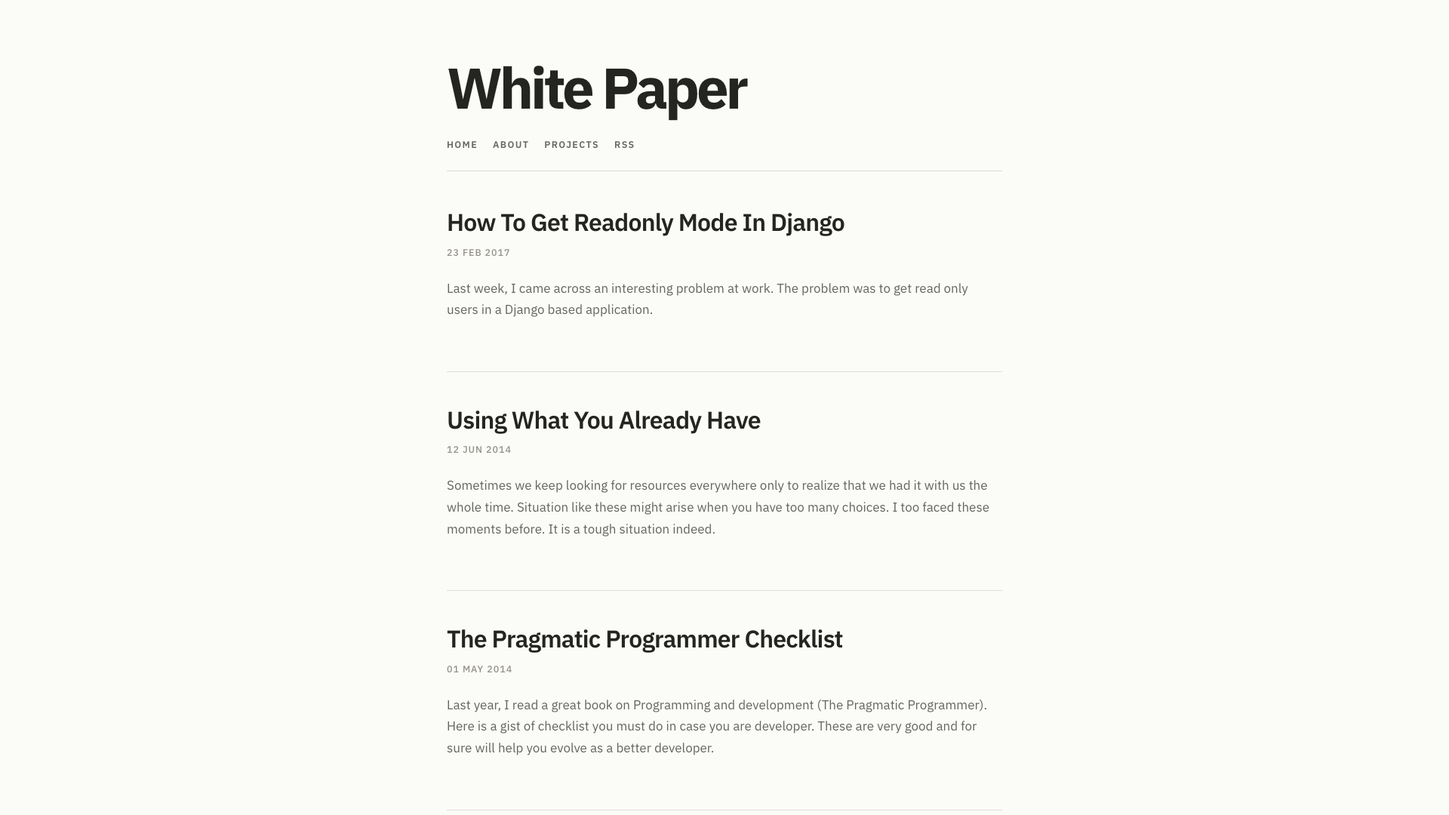
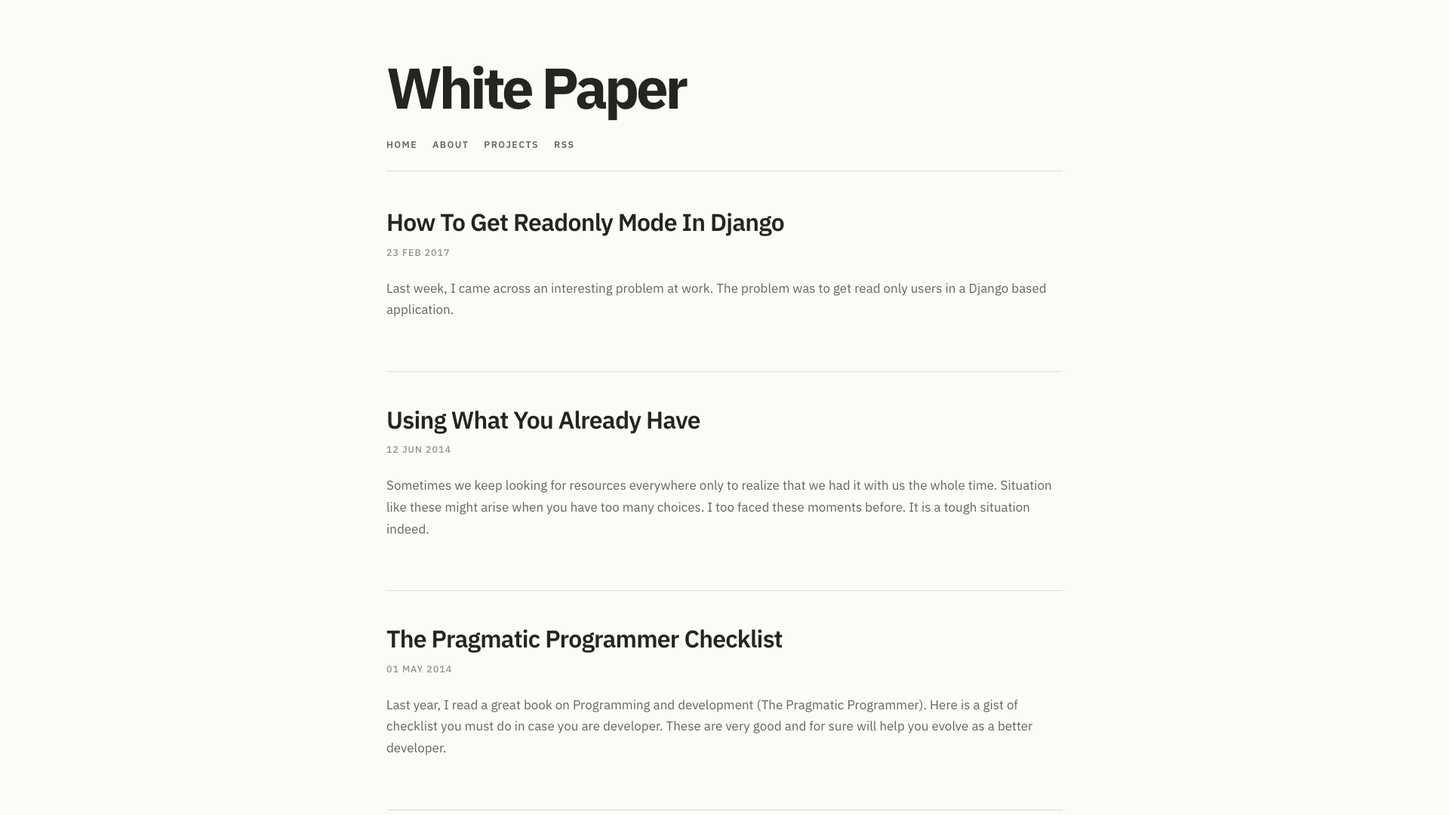
Widen the theme content area
Use more horizontal space on modern displays while retaining responsive margins on smaller screens. Refresh screenshots to match.

diff --git a/dist/css/main.min.rtl.css b/dist/css/main.min.rtl.css
@@ -1,1 +1,1 @@
-:root{--paper:#fbfbf8;--paper-raised:#fff;--ink:#242421;--ink-soft:#65645f;--ink-faint:#918f87;--line:#deddd6;--accent:#087ea4;--accent-dark:#075d78;--code-bg:#f1f4f3;--content-width:46rem;--radius:.35rem}*,:before,:after{box-sizing:border-box}html{--lightningcss-light:initial;--lightningcss-dark: ;color-scheme:light;scroll-behavior:smooth;font-size:100%}body{color:var(--ink);background:var(--paper);text-rendering:optimizelegibility;-webkit-font-smoothing:antialiased;margin:0;font-family:IBM Plex Sans,system-ui,sans-serif;font-size:1.0625rem;line-height:1.7}::selection{color:var(--ink);background:#cfeef5}.access{clip:rect(0, 0, 0, 0);white-space:nowrap;border:0;width:1px;height:1px;margin:-1px;padding:0;position:absolute;overflow:hidden}.clear{clear:both}.clearfix:after{clear:both;content:"";display:table}.container{width:min(100% - 2.5rem, var(--content-width));margin-inline:auto}a{color:var(--accent);text-underline-offset:.18em;text-decoration-thickness:.08em}a:hover{color:var(--accent-dark)}a:focus-visible,button:focus-visible{outline:3px solid color-mix(in srgb, var(--accent) 35%, transparent);outline-offset:.2rem;border-radius:.15rem}img{max-width:100%;height:auto;display:block}p,ul,ol,dl,blockquote,pre,table,.figure{margin-block:1.4rem}ul,ol{padding-inline-start:1.4rem}li+li{margin-top:.35rem}strong{font-weight:600}hr{border:0;border-top:1px solid var(--line);width:4rem;margin:3.5rem auto}header{border-bottom:1px solid var(--line);padding-block:clamp(2.5rem,8vw,5rem) 1.5rem}a.top-link{color:var(--ink);letter-spacing:-.055em;font-size:clamp(2.6rem,9vw,4.75rem);font-weight:700;line-height:.95;text-decoration:none;display:inline-block}a.top-link:hover{color:var(--ink-soft)}ul.nav{flex-wrap:wrap;gap:.5rem 1.25rem;margin:1.75rem 0 0;padding:0;list-style:none;display:flex}ul.nav li{letter-spacing:.11em;text-transform:uppercase;font-size:.78rem;font-weight:600;margin:0!important}ul.nav li a{color:var(--ink-soft);text-decoration:none}ul.nav li a:hover{color:var(--ink)}.listing{margin-block:0 clamp(3rem,8vw,5rem)}.listing .post{border-bottom:1px solid var(--line);margin-block:0 2.75rem;padding-block:0 2.75rem}.listing .post:last-child{border-bottom:0;margin-bottom:0}.listing .post h2{letter-spacing:-.025em;margin:0;font-size:clamp(1.55rem,5vw,2rem);font-weight:600;line-height:1.2}.listing .post h2 a{color:var(--ink);text-decoration:none}.listing .post h2 a:hover{color:var(--accent-dark)}.listing .post p:not(.post-date){color:var(--ink-soft)}.post-date,p.date{color:var(--ink-faint);letter-spacing:.08em;text-transform:uppercase;margin:.65rem 0 1.25rem;font-size:.78rem;font-weight:500}.main-content{padding-block:clamp(2.5rem,5vw,3rem)}h1,h2,h3,h4,h5,h6{color:var(--ink);text-wrap:balance;line-height:1.2}h1{letter-spacing:-.04em;margin:0 0 1.5rem;font-size:clamp(2.25rem,7vw,3.5rem)}h2{letter-spacing:-.025em;margin:2.75rem 0 1rem;font-size:clamp(1.65rem,5vw,2.15rem)}h3{margin:2.25rem 0 .75rem;font-size:1.3rem}h4,h5,h6{margin:2rem 0 .75rem;font-size:1rem}.container>h2:first-child{letter-spacing:-.04em;max-width:42rem;margin-top:0;margin-bottom:.5rem;font-size:clamp(2.2rem,7vw,3.4rem)}p.intro{color:var(--ink-soft);font-size:clamp(1.3rem,4vw,1.75rem);font-weight:300;line-height:1.45}blockquote{color:var(--ink-soft);border-inline-start:3px solid var(--accent);margin-inline:0;padding:.15rem 1.4rem .15rem 0;font-size:1.08em}blockquote p{color:inherit}.figure{background:var(--paper-raised);border:1px solid var(--line);border-radius:var(--radius);padding:.4rem}.figure small{color:var(--ink-soft);padding:.6rem .4rem .2rem;font-size:.78rem;line-height:1.4;display:block}.fig-a{float:inline-end;max-width:45%;margin-inline-start:1.5rem}table{width:100%;color:var(--ink);border-collapse:collapse;white-space:nowrap;font-size:.9rem;display:block;overflow-x:auto}caption{color:var(--ink-soft);text-align:start;text-transform:uppercase;padding-block:.5rem;font-size:.78rem;font-weight:600}th,td{text-align:start;border-bottom:1px solid var(--line);padding:.65rem .8rem}th{background:var(--code-bg);font-weight:600}code,pre{font-family:ui-monospace,SFMono-Regular,Consolas,monospace}code{color:#265364;background:var(--code-bg);border-radius:.25rem;padding:.12em .35em;font-size:.86em}pre{color:#303633;background:var(--paper-raised);border:1px solid var(--line);border-radius:var(--radius);tab-size:2;padding:1.15rem 1.25rem;font-size:.88rem;line-height:1.6;overflow-x:auto}pre code{color:inherit;font-size:inherit;background:100% 0;border-radius:0;padding:0}.pagination{border-top:1px solid var(--line);min-height:2.5rem;padding-top:2rem}.pagination a,.pagination span{color:var(--ink-soft)}.pagination-links{float:inline-end;align-items:center;gap:1.5rem;display:flex}.pagination-links a,.pagination-links>span{justify-content:center;align-items:center;min-width:2rem;font-size:2rem;line-height:1;display:inline-flex}.pagination-links>span{opacity:.35}.social-media-icons{float:inline-start;color:var(--ink-soft);margin-inline-end:.65rem}.social-media-icons:hover,.bottom-icon:hover{color:var(--accent-dark)}.keep-in-touch,.footer-pagination{clear:both;color:var(--ink-faint);margin-top:2.5rem;font-size:.85rem}.keep-in-touch{text-align:end;border-top:1px solid var(--line);padding-top:1.25rem}.owner-name{margin-inline-start:0}.user-avatar{border-radius:var(--radius)}.twitter-tweet-rendered{padding-block:.75rem}@media (width<=36rem){.container{width:min(100% - 1.5rem, var(--content-width))}header{padding-top:2.5rem}ul.nav{gap:.5rem 1rem}.main-content{padding-top:2.5rem}.listing{margin-block:2.75rem}.listing .post{margin-bottom:2rem;padding-bottom:2rem}.fig-a{float:none;max-width:100%;margin-inline-start:0}}@media (prefers-reduced-motion:reduce){html{scroll-behavior:auto}}.highlight .hll{background-color:#ffc}.highlight{background:#f8f8f8}.highlight .c{color:#080;font-style:italic}.highlight .err{border:1px solid red}.highlight .k{color:#a2f;font-weight:700}.highlight .o{color:#666}.highlight .cm{color:#080;font-style:italic}.highlight .cp{color:#080}.highlight .c1{color:#080;font-style:italic}.highlight .cs{color:#080;font-weight:700}.highlight .gd{color:#a00000}.highlight .ge{font-style:italic}.highlight .gr{color:red}.highlight .gh{color:navy;font-weight:700}.highlight .gi{color:#00a000}.highlight .go{color:#888}.highlight .gp{color:navy;font-weight:700}.highlight .gs{font-weight:700}.highlight .gu{color:purple;font-weight:700}.highlight .gt{color:#04d}.highlight .kc,.highlight .kd,.highlight .kn{color:#a2f;font-weight:700}.highlight .kp{color:#a2f}.highlight .kr{color:#a2f;font-weight:700}.highlight .kt{color:#0b0;font-weight:700}.highlight .m{color:#666}.highlight .s,.highlight .na{color:#b44}.highlight .nb{color:#a2f}.highlight .nc{color:#00f}.highlight .no{color:#800}.highlight .nd{color:#a2f}.highlight .ni{color:#999;font-weight:700}.highlight .ne{color:#d2413a;font-weight:700}.highlight .nf{color:#00a000}.highlight .nl{color:#a0a000}.highlight .nn{color:#00f;font-weight:700}.highlight .nt{color:green;font-weight:700}.highlight .nv{color:#b8860b}.highlight .ow{color:#a2f;font-weight:700}.highlight .w{color:#bbb}.highlight .mf,.highlight .mh,.highlight .mi,.highlight .mo{color:#666}.highlight .sb,.highlight .sc{color:#b44}.highlight .sd{color:#b44;font-style:italic}.highlight .s2{color:#b44}.highlight .se{color:#b62;font-weight:700}.highlight .sh{color:#b44}.highlight .si{color:#b68;font-weight:700}.highlight .sx{color:green}.highlight .sr{color:#b68}.highlight .s1{color:#b44}.highlight .ss{color:#b8860b}.highlight .bp{color:#a2f}.highlight .vc,.highlight .vg,.highlight .vi{color:#b8860b}.highlight .il{color:#666}
+:root{--paper:#fbfbf8;--paper-raised:#fff;--ink:#242421;--ink-soft:#65645f;--ink-faint:#918f87;--line:#deddd6;--accent:#087ea4;--accent-dark:#075d78;--code-bg:#f1f4f3;--content-width:56rem;--radius:.35rem}*,:before,:after{box-sizing:border-box}html{--lightningcss-light:initial;--lightningcss-dark: ;color-scheme:light;scroll-behavior:smooth;font-size:100%}body{color:var(--ink);background:var(--paper);text-rendering:optimizelegibility;-webkit-font-smoothing:antialiased;margin:0;font-family:IBM Plex Sans,system-ui,sans-serif;font-size:1.0625rem;line-height:1.7}::selection{color:var(--ink);background:#cfeef5}.access{clip:rect(0, 0, 0, 0);white-space:nowrap;border:0;width:1px;height:1px;margin:-1px;padding:0;position:absolute;overflow:hidden}.clear{clear:both}.clearfix:after{clear:both;content:"";display:table}.container{width:min(100% - 2.5rem, var(--content-width));margin-inline:auto}a{color:var(--accent);text-underline-offset:.18em;text-decoration-thickness:.08em}a:hover{color:var(--accent-dark)}a:focus-visible,button:focus-visible{outline:3px solid color-mix(in srgb, var(--accent) 35%, transparent);outline-offset:.2rem;border-radius:.15rem}img{max-width:100%;height:auto;display:block}p,ul,ol,dl,blockquote,pre,table,.figure{margin-block:1.4rem}ul,ol{padding-inline-start:1.4rem}li+li{margin-top:.35rem}strong{font-weight:600}hr{border:0;border-top:1px solid var(--line);width:4rem;margin:3.5rem auto}header{border-bottom:1px solid var(--line);padding-block:clamp(2.5rem,8vw,5rem) 1.5rem}a.top-link{color:var(--ink);letter-spacing:-.055em;font-size:clamp(2.6rem,9vw,4.75rem);font-weight:700;line-height:.95;text-decoration:none;display:inline-block}a.top-link:hover{color:var(--ink-soft)}ul.nav{flex-wrap:wrap;gap:.5rem 1.25rem;margin:1.75rem 0 0;padding:0;list-style:none;display:flex}ul.nav li{letter-spacing:.11em;text-transform:uppercase;font-size:.78rem;font-weight:600;margin:0!important}ul.nav li a{color:var(--ink-soft);text-decoration:none}ul.nav li a:hover{color:var(--ink)}.listing{margin-block:0 clamp(3rem,8vw,5rem)}.listing .post{border-bottom:1px solid var(--line);margin-block:0 2.75rem;padding-block:0 2.75rem}.listing .post:last-child{border-bottom:0;margin-bottom:0}.listing .post h2{letter-spacing:-.025em;margin:0;font-size:clamp(1.55rem,5vw,2rem);font-weight:600;line-height:1.2}.listing .post h2 a{color:var(--ink);text-decoration:none}.listing .post h2 a:hover{color:var(--accent-dark)}.listing .post p:not(.post-date){color:var(--ink-soft)}.post-date,p.date{color:var(--ink-faint);letter-spacing:.08em;text-transform:uppercase;margin:.65rem 0 1.25rem;font-size:.78rem;font-weight:500}.main-content{padding-block:clamp(2.5rem,5vw,3rem)}h1,h2,h3,h4,h5,h6{color:var(--ink);text-wrap:balance;line-height:1.2}h1{letter-spacing:-.04em;margin:0 0 1.5rem;font-size:clamp(2.25rem,7vw,3.5rem)}h2{letter-spacing:-.025em;margin:2.75rem 0 1rem;font-size:clamp(1.65rem,5vw,2.15rem)}h3{margin:2.25rem 0 .75rem;font-size:1.3rem}h4,h5,h6{margin:2rem 0 .75rem;font-size:1rem}.container>h2:first-child{letter-spacing:-.04em;max-width:42rem;margin-top:0;margin-bottom:.5rem;font-size:clamp(2.2rem,7vw,3.4rem)}p.intro{color:var(--ink-soft);font-size:clamp(1.3rem,4vw,1.75rem);font-weight:300;line-height:1.45}blockquote{color:var(--ink-soft);border-inline-start:3px solid var(--accent);margin-inline:0;padding:.15rem 1.4rem .15rem 0;font-size:1.08em}blockquote p{color:inherit}.figure{background:var(--paper-raised);border:1px solid var(--line);border-radius:var(--radius);padding:.4rem}.figure small{color:var(--ink-soft);padding:.6rem .4rem .2rem;font-size:.78rem;line-height:1.4;display:block}.fig-a{float:inline-end;max-width:45%;margin-inline-start:1.5rem}table{width:100%;color:var(--ink);border-collapse:collapse;white-space:nowrap;font-size:.9rem;display:block;overflow-x:auto}caption{color:var(--ink-soft);text-align:start;text-transform:uppercase;padding-block:.5rem;font-size:.78rem;font-weight:600}th,td{text-align:start;border-bottom:1px solid var(--line);padding:.65rem .8rem}th{background:var(--code-bg);font-weight:600}code,pre{font-family:ui-monospace,SFMono-Regular,Consolas,monospace}code{color:#265364;background:var(--code-bg);border-radius:.25rem;padding:.12em .35em;font-size:.86em}pre{color:#303633;background:var(--paper-raised);border:1px solid var(--line);border-radius:var(--radius);tab-size:2;padding:1.15rem 1.25rem;font-size:.88rem;line-height:1.6;overflow-x:auto}pre code{color:inherit;font-size:inherit;background:100% 0;border-radius:0;padding:0}.pagination{border-top:1px solid var(--line);min-height:2.5rem;padding-top:2rem}.pagination a,.pagination span{color:var(--ink-soft)}.pagination-links{float:inline-end;align-items:center;gap:1.5rem;display:flex}.pagination-links a,.pagination-links>span{justify-content:center;align-items:center;min-width:2rem;font-size:2rem;line-height:1;display:inline-flex}.pagination-links>span{opacity:.35}.social-media-icons{float:inline-start;color:var(--ink-soft);margin-inline-end:.65rem}.social-media-icons:hover,.bottom-icon:hover{color:var(--accent-dark)}.keep-in-touch,.footer-pagination{clear:both;color:var(--ink-faint);margin-top:2.5rem;font-size:.85rem}.keep-in-touch{text-align:end;border-top:1px solid var(--line);padding-top:1.25rem}.owner-name{margin-inline-start:0}.user-avatar{border-radius:var(--radius)}.twitter-tweet-rendered{padding-block:.75rem}@media (width<=36rem){.container{width:min(100% - 1.5rem, var(--content-width))}header{padding-top:2.5rem}ul.nav{gap:.5rem 1rem}.main-content{padding-top:2.5rem}.listing{margin-block:2.75rem}.listing .post{margin-bottom:2rem;padding-bottom:2rem}.fig-a{float:none;max-width:100%;margin-inline-start:0}}@media (prefers-reduced-motion:reduce){html{scroll-behavior:auto}}.highlight .hll{background-color:#ffc}.highlight{background:#f8f8f8}.highlight .c{color:#080;font-style:italic}.highlight .err{border:1px solid red}.highlight .k{color:#a2f;font-weight:700}.highlight .o{color:#666}.highlight .cm{color:#080;font-style:italic}.highlight .cp{color:#080}.highlight .c1{color:#080;font-style:italic}.highlight .cs{color:#080;font-weight:700}.highlight .gd{color:#a00000}.highlight .ge{font-style:italic}.highlight .gr{color:red}.highlight .gh{color:navy;font-weight:700}.highlight .gi{color:#00a000}.highlight .go{color:#888}.highlight .gp{color:navy;font-weight:700}.highlight .gs{font-weight:700}.highlight .gu{color:purple;font-weight:700}.highlight .gt{color:#04d}.highlight .kc,.highlight .kd,.highlight .kn{color:#a2f;font-weight:700}.highlight .kp{color:#a2f}.highlight .kr{color:#a2f;font-weight:700}.highlight .kt{color:#0b0;font-weight:700}.highlight .m{color:#666}.highlight .s,.highlight .na{color:#b44}.highlight .nb{color:#a2f}.highlight .nc{color:#00f}.highlight .no{color:#800}.highlight .nd{color:#a2f}.highlight .ni{color:#999;font-weight:700}.highlight .ne{color:#d2413a;font-weight:700}.highlight .nf{color:#00a000}.highlight .nl{color:#a0a000}.highlight .nn{color:#00f;font-weight:700}.highlight .nt{color:green;font-weight:700}.highlight .nv{color:#b8860b}.highlight .ow{color:#a2f;font-weight:700}.highlight .w{color:#bbb}.highlight .mf,.highlight .mh,.highlight .mi,.highlight .mo{color:#666}.highlight .sb,.highlight .sc{color:#b44}.highlight .sd{color:#b44;font-style:italic}.highlight .s2{color:#b44}.highlight .se{color:#b62;font-weight:700}.highlight .sh{color:#b44}.highlight .si{color:#b68;font-weight:700}.highlight .sx{color:green}.highlight .sr{color:#b68}.highlight .s1{color:#b44}.highlight .ss{color:#b8860b}.highlight .bp{color:#a2f}.highlight .vc,.highlight .vg,.highlight .vi{color:#b8860b}.highlight .il{color:#666}

diff --git a/dist/css/main.min.css b/dist/css/main.min.css
@@ -1,1 +1,1 @@
-:root{--paper:#fbfbf8;--paper-raised:#fff;--ink:#242421;--ink-soft:#65645f;--ink-faint:#918f87;--line:#deddd6;--accent:#087ea4;--accent-dark:#075d78;--code-bg:#f1f4f3;--content-width:46rem;--radius:.35rem}*,:before,:after{box-sizing:border-box}html{--lightningcss-light:initial;--lightningcss-dark: ;color-scheme:light;scroll-behavior:smooth;font-size:100%}body{color:var(--ink);background:var(--paper);text-rendering:optimizelegibility;-webkit-font-smoothing:antialiased;margin:0;font-family:IBM Plex Sans,system-ui,sans-serif;font-size:1.0625rem;line-height:1.7}::selection{color:var(--ink);background:#cfeef5}.access{clip:rect(0, 0, 0, 0);white-space:nowrap;border:0;width:1px;height:1px;margin:-1px;padding:0;position:absolute;overflow:hidden}.clear{clear:both}.clearfix:after{clear:both;content:"";display:table}.container{width:min(100% - 2.5rem, var(--content-width));margin-inline:auto}a{color:var(--accent);text-underline-offset:.18em;text-decoration-thickness:.08em}a:hover{color:var(--accent-dark)}a:focus-visible,button:focus-visible{outline:3px solid color-mix(in srgb, var(--accent) 35%, transparent);outline-offset:.2rem;border-radius:.15rem}img{max-width:100%;height:auto;display:block}p,ul,ol,dl,blockquote,pre,table,.figure{margin-block:1.4rem}ul,ol{padding-inline-start:1.4rem}li+li{margin-top:.35rem}strong{font-weight:600}hr{border:0;border-top:1px solid var(--line);width:4rem;margin:3.5rem auto}header{border-bottom:1px solid var(--line);padding-block:clamp(2.5rem,8vw,5rem) 1.5rem}a.top-link{color:var(--ink);letter-spacing:-.055em;font-size:clamp(2.6rem,9vw,4.75rem);font-weight:700;line-height:.95;text-decoration:none;display:inline-block}a.top-link:hover{color:var(--ink-soft)}ul.nav{flex-wrap:wrap;gap:.5rem 1.25rem;margin:1.75rem 0 0;padding:0;list-style:none;display:flex}ul.nav li{letter-spacing:.11em;text-transform:uppercase;font-size:.78rem;font-weight:600;margin:0!important}ul.nav li a{color:var(--ink-soft);text-decoration:none}ul.nav li a:hover{color:var(--ink)}.listing{margin-block:0 clamp(3rem,8vw,5rem)}.listing .post{border-bottom:1px solid var(--line);margin-block:0 2.75rem;padding-block:0 2.75rem}.listing .post:last-child{border-bottom:0;margin-bottom:0}.listing .post h2{letter-spacing:-.025em;margin:0;font-size:clamp(1.55rem,5vw,2rem);font-weight:600;line-height:1.2}.listing .post h2 a{color:var(--ink);text-decoration:none}.listing .post h2 a:hover{color:var(--accent-dark)}.listing .post p:not(.post-date){color:var(--ink-soft)}.post-date,p.date{color:var(--ink-faint);letter-spacing:.08em;text-transform:uppercase;margin:.65rem 0 1.25rem;font-size:.78rem;font-weight:500}.main-content{padding-block:clamp(2.5rem,5vw,3rem)}h1,h2,h3,h4,h5,h6{color:var(--ink);text-wrap:balance;line-height:1.2}h1{letter-spacing:-.04em;margin:0 0 1.5rem;font-size:clamp(2.25rem,7vw,3.5rem)}h2{letter-spacing:-.025em;margin:2.75rem 0 1rem;font-size:clamp(1.65rem,5vw,2.15rem)}h3{margin:2.25rem 0 .75rem;font-size:1.3rem}h4,h5,h6{margin:2rem 0 .75rem;font-size:1rem}.container>h2:first-child{letter-spacing:-.04em;max-width:42rem;margin-top:0;margin-bottom:.5rem;font-size:clamp(2.2rem,7vw,3.4rem)}p.intro{color:var(--ink-soft);font-size:clamp(1.3rem,4vw,1.75rem);font-weight:300;line-height:1.45}blockquote{color:var(--ink-soft);border-inline-start:3px solid var(--accent);margin-inline:0;padding:.15rem 0 .15rem 1.4rem;font-size:1.08em}blockquote p{color:inherit}.figure{background:var(--paper-raised);border:1px solid var(--line);border-radius:var(--radius);padding:.4rem}.figure small{color:var(--ink-soft);padding:.6rem .4rem .2rem;font-size:.78rem;line-height:1.4;display:block}.fig-a{float:inline-end;max-width:45%;margin-inline-start:1.5rem}table{width:100%;color:var(--ink);border-collapse:collapse;white-space:nowrap;font-size:.9rem;display:block;overflow-x:auto}caption{color:var(--ink-soft);text-align:start;text-transform:uppercase;padding-block:.5rem;font-size:.78rem;font-weight:600}th,td{text-align:start;border-bottom:1px solid var(--line);padding:.65rem .8rem}th{background:var(--code-bg);font-weight:600}code,pre{font-family:ui-monospace,SFMono-Regular,Consolas,monospace}code{color:#265364;background:var(--code-bg);border-radius:.25rem;padding:.12em .35em;font-size:.86em}pre{color:#303633;background:var(--paper-raised);border:1px solid var(--line);border-radius:var(--radius);tab-size:2;padding:1.15rem 1.25rem;font-size:.88rem;line-height:1.6;overflow-x:auto}pre code{color:inherit;font-size:inherit;background:0 0;border-radius:0;padding:0}.pagination{border-top:1px solid var(--line);min-height:2.5rem;padding-top:2rem}.pagination a,.pagination span{color:var(--ink-soft)}.pagination-links{float:inline-end;align-items:center;gap:1.5rem;display:flex}.pagination-links a,.pagination-links>span{justify-content:center;align-items:center;min-width:2rem;font-size:2rem;line-height:1;display:inline-flex}.pagination-links>span{opacity:.35}.social-media-icons{float:inline-start;color:var(--ink-soft);margin-inline-end:.65rem}.social-media-icons:hover,.bottom-icon:hover{color:var(--accent-dark)}.keep-in-touch,.footer-pagination{clear:both;color:var(--ink-faint);margin-top:2.5rem;font-size:.85rem}.keep-in-touch{text-align:end;border-top:1px solid var(--line);padding-top:1.25rem}.owner-name{margin-inline-start:0}.user-avatar{border-radius:var(--radius)}.twitter-tweet-rendered{padding-block:.75rem}@media (width<=36rem){.container{width:min(100% - 1.5rem, var(--content-width))}header{padding-top:2.5rem}ul.nav{gap:.5rem 1rem}.main-content{padding-top:2.5rem}.listing{margin-block:2.75rem}.listing .post{margin-bottom:2rem;padding-bottom:2rem}.fig-a{float:none;max-width:100%;margin-inline-start:0}}@media (prefers-reduced-motion:reduce){html{scroll-behavior:auto}}.highlight .hll{background-color:#ffc}.highlight{background:#f8f8f8}.highlight .c{color:#080;font-style:italic}.highlight .err{border:1px solid red}.highlight .k{color:#a2f;font-weight:700}.highlight .o{color:#666}.highlight .cm{color:#080;font-style:italic}.highlight .cp{color:#080}.highlight .c1{color:#080;font-style:italic}.highlight .cs{color:#080;font-weight:700}.highlight .gd{color:#a00000}.highlight .ge{font-style:italic}.highlight .gr{color:red}.highlight .gh{color:navy;font-weight:700}.highlight .gi{color:#00a000}.highlight .go{color:#888}.highlight .gp{color:navy;font-weight:700}.highlight .gs{font-weight:700}.highlight .gu{color:purple;font-weight:700}.highlight .gt{color:#04d}.highlight .kc,.highlight .kd,.highlight .kn{color:#a2f;font-weight:700}.highlight .kp{color:#a2f}.highlight .kr{color:#a2f;font-weight:700}.highlight .kt{color:#0b0;font-weight:700}.highlight .m{color:#666}.highlight .s,.highlight .na{color:#b44}.highlight .nb{color:#a2f}.highlight .nc{color:#00f}.highlight .no{color:#800}.highlight .nd{color:#a2f}.highlight .ni{color:#999;font-weight:700}.highlight .ne{color:#d2413a;font-weight:700}.highlight .nf{color:#00a000}.highlight .nl{color:#a0a000}.highlight .nn{color:#00f;font-weight:700}.highlight .nt{color:green;font-weight:700}.highlight .nv{color:#b8860b}.highlight .ow{color:#a2f;font-weight:700}.highlight .w{color:#bbb}.highlight .mf,.highlight .mh,.highlight .mi,.highlight .mo{color:#666}.highlight .sb,.highlight .sc{color:#b44}.highlight .sd{color:#b44;font-style:italic}.highlight .s2{color:#b44}.highlight .se{color:#b62;font-weight:700}.highlight .sh{color:#b44}.highlight .si{color:#b68;font-weight:700}.highlight .sx{color:green}.highlight .sr{color:#b68}.highlight .s1{color:#b44}.highlight .ss{color:#b8860b}.highlight .bp{color:#a2f}.highlight .vc,.highlight .vg,.highlight .vi{color:#b8860b}.highlight .il{color:#666}
+:root{--paper:#fbfbf8;--paper-raised:#fff;--ink:#242421;--ink-soft:#65645f;--ink-faint:#918f87;--line:#deddd6;--accent:#087ea4;--accent-dark:#075d78;--code-bg:#f1f4f3;--content-width:56rem;--radius:.35rem}*,:before,:after{box-sizing:border-box}html{--lightningcss-light:initial;--lightningcss-dark: ;color-scheme:light;scroll-behavior:smooth;font-size:100%}body{color:var(--ink);background:var(--paper);text-rendering:optimizelegibility;-webkit-font-smoothing:antialiased;margin:0;font-family:IBM Plex Sans,system-ui,sans-serif;font-size:1.0625rem;line-height:1.7}::selection{color:var(--ink);background:#cfeef5}.access{clip:rect(0, 0, 0, 0);white-space:nowrap;border:0;width:1px;height:1px;margin:-1px;padding:0;position:absolute;overflow:hidden}.clear{clear:both}.clearfix:after{clear:both;content:"";display:table}.container{width:min(100% - 2.5rem, var(--content-width));margin-inline:auto}a{color:var(--accent);text-underline-offset:.18em;text-decoration-thickness:.08em}a:hover{color:var(--accent-dark)}a:focus-visible,button:focus-visible{outline:3px solid color-mix(in srgb, var(--accent) 35%, transparent);outline-offset:.2rem;border-radius:.15rem}img{max-width:100%;height:auto;display:block}p,ul,ol,dl,blockquote,pre,table,.figure{margin-block:1.4rem}ul,ol{padding-inline-start:1.4rem}li+li{margin-top:.35rem}strong{font-weight:600}hr{border:0;border-top:1px solid var(--line);width:4rem;margin:3.5rem auto}header{border-bottom:1px solid var(--line);padding-block:clamp(2.5rem,8vw,5rem) 1.5rem}a.top-link{color:var(--ink);letter-spacing:-.055em;font-size:clamp(2.6rem,9vw,4.75rem);font-weight:700;line-height:.95;text-decoration:none;display:inline-block}a.top-link:hover{color:var(--ink-soft)}ul.nav{flex-wrap:wrap;gap:.5rem 1.25rem;margin:1.75rem 0 0;padding:0;list-style:none;display:flex}ul.nav li{letter-spacing:.11em;text-transform:uppercase;font-size:.78rem;font-weight:600;margin:0!important}ul.nav li a{color:var(--ink-soft);text-decoration:none}ul.nav li a:hover{color:var(--ink)}.listing{margin-block:0 clamp(3rem,8vw,5rem)}.listing .post{border-bottom:1px solid var(--line);margin-block:0 2.75rem;padding-block:0 2.75rem}.listing .post:last-child{border-bottom:0;margin-bottom:0}.listing .post h2{letter-spacing:-.025em;margin:0;font-size:clamp(1.55rem,5vw,2rem);font-weight:600;line-height:1.2}.listing .post h2 a{color:var(--ink);text-decoration:none}.listing .post h2 a:hover{color:var(--accent-dark)}.listing .post p:not(.post-date){color:var(--ink-soft)}.post-date,p.date{color:var(--ink-faint);letter-spacing:.08em;text-transform:uppercase;margin:.65rem 0 1.25rem;font-size:.78rem;font-weight:500}.main-content{padding-block:clamp(2.5rem,5vw,3rem)}h1,h2,h3,h4,h5,h6{color:var(--ink);text-wrap:balance;line-height:1.2}h1{letter-spacing:-.04em;margin:0 0 1.5rem;font-size:clamp(2.25rem,7vw,3.5rem)}h2{letter-spacing:-.025em;margin:2.75rem 0 1rem;font-size:clamp(1.65rem,5vw,2.15rem)}h3{margin:2.25rem 0 .75rem;font-size:1.3rem}h4,h5,h6{margin:2rem 0 .75rem;font-size:1rem}.container>h2:first-child{letter-spacing:-.04em;max-width:42rem;margin-top:0;margin-bottom:.5rem;font-size:clamp(2.2rem,7vw,3.4rem)}p.intro{color:var(--ink-soft);font-size:clamp(1.3rem,4vw,1.75rem);font-weight:300;line-height:1.45}blockquote{color:var(--ink-soft);border-inline-start:3px solid var(--accent);margin-inline:0;padding:.15rem 0 .15rem 1.4rem;font-size:1.08em}blockquote p{color:inherit}.figure{background:var(--paper-raised);border:1px solid var(--line);border-radius:var(--radius);padding:.4rem}.figure small{color:var(--ink-soft);padding:.6rem .4rem .2rem;font-size:.78rem;line-height:1.4;display:block}.fig-a{float:inline-end;max-width:45%;margin-inline-start:1.5rem}table{width:100%;color:var(--ink);border-collapse:collapse;white-space:nowrap;font-size:.9rem;display:block;overflow-x:auto}caption{color:var(--ink-soft);text-align:start;text-transform:uppercase;padding-block:.5rem;font-size:.78rem;font-weight:600}th,td{text-align:start;border-bottom:1px solid var(--line);padding:.65rem .8rem}th{background:var(--code-bg);font-weight:600}code,pre{font-family:ui-monospace,SFMono-Regular,Consolas,monospace}code{color:#265364;background:var(--code-bg);border-radius:.25rem;padding:.12em .35em;font-size:.86em}pre{color:#303633;background:var(--paper-raised);border:1px solid var(--line);border-radius:var(--radius);tab-size:2;padding:1.15rem 1.25rem;font-size:.88rem;line-height:1.6;overflow-x:auto}pre code{color:inherit;font-size:inherit;background:0 0;border-radius:0;padding:0}.pagination{border-top:1px solid var(--line);min-height:2.5rem;padding-top:2rem}.pagination a,.pagination span{color:var(--ink-soft)}.pagination-links{float:inline-end;align-items:center;gap:1.5rem;display:flex}.pagination-links a,.pagination-links>span{justify-content:center;align-items:center;min-width:2rem;font-size:2rem;line-height:1;display:inline-flex}.pagination-links>span{opacity:.35}.social-media-icons{float:inline-start;color:var(--ink-soft);margin-inline-end:.65rem}.social-media-icons:hover,.bottom-icon:hover{color:var(--accent-dark)}.keep-in-touch,.footer-pagination{clear:both;color:var(--ink-faint);margin-top:2.5rem;font-size:.85rem}.keep-in-touch{text-align:end;border-top:1px solid var(--line);padding-top:1.25rem}.owner-name{margin-inline-start:0}.user-avatar{border-radius:var(--radius)}.twitter-tweet-rendered{padding-block:.75rem}@media (width<=36rem){.container{width:min(100% - 1.5rem, var(--content-width))}header{padding-top:2.5rem}ul.nav{gap:.5rem 1rem}.main-content{padding-top:2.5rem}.listing{margin-block:2.75rem}.listing .post{margin-bottom:2rem;padding-bottom:2rem}.fig-a{float:none;max-width:100%;margin-inline-start:0}}@media (prefers-reduced-motion:reduce){html{scroll-behavior:auto}}.highlight .hll{background-color:#ffc}.highlight{background:#f8f8f8}.highlight .c{color:#080;font-style:italic}.highlight .err{border:1px solid red}.highlight .k{color:#a2f;font-weight:700}.highlight .o{color:#666}.highlight .cm{color:#080;font-style:italic}.highlight .cp{color:#080}.highlight .c1{color:#080;font-style:italic}.highlight .cs{color:#080;font-weight:700}.highlight .gd{color:#a00000}.highlight .ge{font-style:italic}.highlight .gr{color:red}.highlight .gh{color:navy;font-weight:700}.highlight .gi{color:#00a000}.highlight .go{color:#888}.highlight .gp{color:navy;font-weight:700}.highlight .gs{font-weight:700}.highlight .gu{color:purple;font-weight:700}.highlight .gt{color:#04d}.highlight .kc,.highlight .kd,.highlight .kn{color:#a2f;font-weight:700}.highlight .kp{color:#a2f}.highlight .kr{color:#a2f;font-weight:700}.highlight .kt{color:#0b0;font-weight:700}.highlight .m{color:#666}.highlight .s,.highlight .na{color:#b44}.highlight .nb{color:#a2f}.highlight .nc{color:#00f}.highlight .no{color:#800}.highlight .nd{color:#a2f}.highlight .ni{color:#999;font-weight:700}.highlight .ne{color:#d2413a;font-weight:700}.highlight .nf{color:#00a000}.highlight .nl{color:#a0a000}.highlight .nn{color:#00f;font-weight:700}.highlight .nt{color:green;font-weight:700}.highlight .nv{color:#b8860b}.highlight .ow{color:#a2f;font-weight:700}.highlight .w{color:#bbb}.highlight .mf,.highlight .mh,.highlight .mi,.highlight .mo{color:#666}.highlight .sb,.highlight .sc{color:#b44}.highlight .sd{color:#b44;font-style:italic}.highlight .s2{color:#b44}.highlight .se{color:#b62;font-weight:700}.highlight .sh{color:#b44}.highlight .si{color:#b68;font-weight:700}.highlight .sx{color:green}.highlight .sr{color:#b68}.highlight .s1{color:#b44}.highlight .ss{color:#b8860b}.highlight .bp{color:#a2f}.highlight .vc,.highlight .vg,.highlight .vi{color:#b8860b}.highlight .il{color:#666}

diff --git a/css/base.scss b/css/base.scss
@@ -9,7 +9,7 @@
   --accent: #087ea4;
   --accent-dark: #075d78;
   --code-bg: #f1f4f3;
-  --content-width: 46rem;
+  --content-width: 56rem;
   --radius: 0.35rem;
 }
 

diff --git a/CHANGELOG.md b/CHANGELOG.md
@@ -7,6 +7,10 @@ and this project adheres to [Semantic Versioning](https://semver.org/spec/v2.0.0
 
 ## [Unreleased]
 
+### Changed
+
+- Widen the content area for modern desktop displays.
+
 ### Fixed
 
 - Remove stacked layout spacing between the header and first post.
